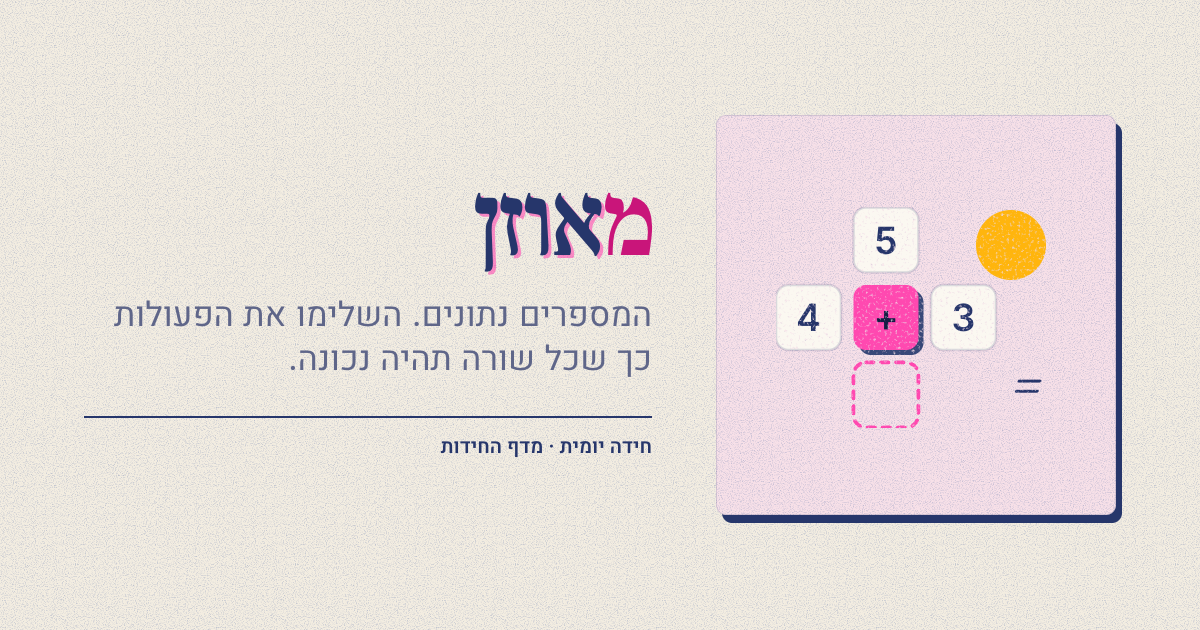
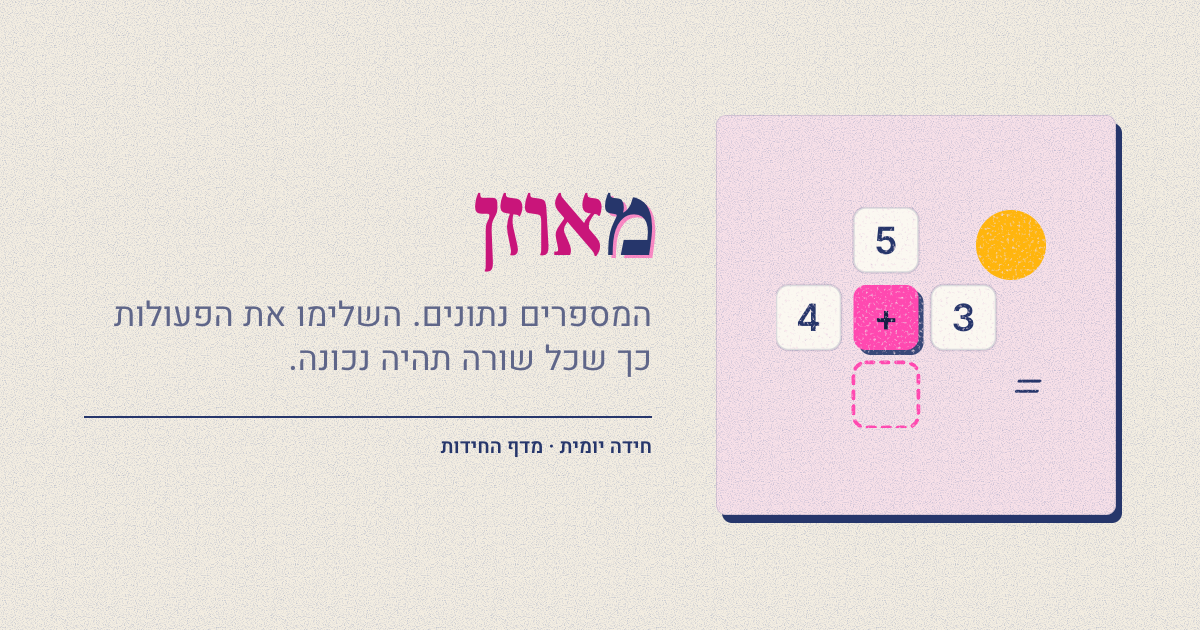
Hebrew names: accent all but the first letter in בסדר, מהפכים, מאוזן

Changed region(s): [[0.37, 0.3016, 0.555, 0.4524]]

diff --git a/i18n/he.js b/i18n/he.js
@@ -254,7 +254,7 @@ module.exports = {
       ['<span class="hide-sm">Price: one coffee break</span>', '<span class="hide-sm">מחיר: הפסקת קפה אחת</span>'],
       ['aria-label="Games"', 'aria-label="משחקים"'],
       ['<span class="kicker">01 <em>Math</em></span>', '<span class="kicker">01 <em>חשבון</em></span>'],
-      ['<h2>Math<span>quilibrium</span></h2>', '<h2><span>מ</span>אוזן</h2>'],
+      ['<h2>Math<span>quilibrium</span></h2>', '<h2>מ<span>אוזן</span></h2>'],
       ['<p>The numbers are given. Fill in the operators so every line is true.</p>', '<p>המספרים נתונים. השלימו את הפעולות כך שכל שורה תהיה נכונה.</p>'],
       ['<span class="kicker">02 <em>Math</em></span>', '<span class="kicker">02 <em>חשבון</em></span>'],
       ['<h2>Bigg<span>r</span></h2>', '<h2><span>כ</span>מה <span>כ</span>מה</h2>'],
@@ -266,13 +266,13 @@ module.exports = {
       ['<p>A subject, 24 words, 60 seconds. Swipe right if it fits.</p>', '<p>נושא אחד, 24 מילים, 60 שניות. מתאים? החליקו ימינה.</p>'],
       ['data-store="orderly"', 'data-store="orderly-he"'],
       ['<span class="kicker">04 <em>Trivia</em></span>', '<span class="kicker">04 <em>טריוויה</em></span>'],
-      ['<h2>Order<span>ly</span></h2>', '<h2><span>ב</span>סדר</h2>'],
+      ['<h2>Order<span>ly</span></h2>', '<h2>ב<span>סדר</span></h2>'],
       ['<p>Ten cards, one subject. Drag them into order.</p>', '<p>עשרה קלפים, נושא אחד. גררו אותם לסדר הנכון.</p>'],
       ['<span class="kicker">05 <em>Logic</em></span>', '<span class="kicker">05 <em>היגיון</em></span>'],
       ['<h2>Coro<span>net</span></h2>', '<h2><span>ה</span>כתרה</h2>'],
       ['<p>Queens in the round: one per ring, one per slice, one per color.</p>', '<p>מלכות במעגל: אחת בכל טבעת, אחת בכל פלח, אחת בכל צבע.</p>'],
       ['<span class="kicker">06 <em>Logic</em></span>', '<span class="kicker">06 <em>היגיון</em></span>'],
-      ['<h2>Quad<span>flip</span></h2>', '<h2><span>מ</span>הפכים</h2>'],
+      ['<h2>Quad<span>flip</span></h2>', '<h2>מ<span>הפכים</span></h2>'],
       ['<p>Stamp every piece once to flip the board back to blank.</p>', '<p>החתימו כל צורה פעם אחת והפכו את הלוח בחזרה ללבן.</p>'],
       ['<p class="colophon">Printed fresh every morning.</p>', '<p class="colophon">מודפס טרי בכל בוקר.</p>'],
       // the inline script
@@ -287,7 +287,7 @@ module.exports = {
     'mathquilibrium/index.html': [
       ['Mathquilibrium — the operator crossword', 'מאוזן — תשבץ הפעולות'],
       ['A crossword where the numbers are given and you fill in the math. New daily puzzle every day.', 'תשבץ שבו המספרים נתונים ואתם משלימים את החשבון. חידה יומית חדשה בכל יום.'],
-      ['<h1 class="wordmark">Math<span>quilibrium</span></h1>', '<h1 class="wordmark"><span>מ</span>אוזן</h1>'],
+      ['<h1 class="wordmark">Math<span>quilibrium</span></h1>', '<h1 class="wordmark">מ<span>אוזן</span></h1>'],
       ['<p class="tagline">The numbers are given. The math is yours.</p>', '<p class="tagline">המספרים נתונים. החשבון עליכם.</p>'],
       ['aria-label="Operators"', 'aria-label="פעולות"'],
       ["<b>Let's go</b>", '<b>יאללה</b>'],
@@ -350,7 +350,7 @@ module.exports = {
       ['Orderly — put ten things in order', 'בסדר — עשרה דברים, סדר אחד'],
       ['A subject and ten cards. Drag them into order: oldest to newest, smallest to largest, mildest to hottest. A new daily puzzle every day.',
         'נושא אחד ועשרה קלפים. גררו אותם לסדר הנכון: מהישן לחדש, מהקטן לגדול, מהעדין לחריף. חידה יומית חדשה בכל יום.'],
-      ['<h1 class="wordmark">Order<span>ly</span></h1>', '<h1 class="wordmark"><span>ב</span>סדר</h1>'],
+      ['<h1 class="wordmark">Order<span>ly</span></h1>', '<h1 class="wordmark">ב<span>סדר</span></h1>'],
       ['<p class="tagline">Ten cards, one subject. Put them in order.</p>', '<p class="tagline">עשרה קלפים, נושא אחד. סדרו אותם.</p>'],
       ["<b>Today's puzzle</b>", '<b>החידה של היום</b>'],
       ['aria-label="Share link to this puzzle"', 'aria-label="שיתוף קישור לחידה"'],
@@ -393,7 +393,7 @@ module.exports = {
     'quadflip/index.html': [
       ['Quadflip — flip the board clear', 'מהפכים — הפכו את הלוח ללבן'],
       ['Stamp every tetromino once to flip a board of tiles back to blank. New daily puzzles every day.', 'החתימו כל צורת טטרומינו פעם אחת כדי להפוך לוח של משבצות בחזרה ללבן. חידות יומיות חדשות בכל יום.'],
-      ['<h1 class="wordmark">Quad<span>flip</span></h1>', '<h1 class="wordmark"><span>מ</span>הפכים</h1>'],
+      ['<h1 class="wordmark">Quad<span>flip</span></h1>', '<h1 class="wordmark">מ<span>הפכים</span></h1>'],
       ['<p class="tagline">Every piece once. Every tile blank.</p>', '<p class="tagline">כל צורה פעם אחת. כל משבצת לבנה.</p>'],
       ['aria-label="Pieces"', 'aria-label="צורות"'],
       ['<p id="board-keys" class="sr-only">Number keys pick a piece. Arrow keys move it over the board. Space or Enter stamps it, flipping the four tiles under it. Backspace or Z takes back the last stamp.</p>',

diff --git a/shared/og.html b/shared/og.html
@@ -124,12 +124,12 @@
   };
   // Hebrew (?lang=he): the names, lines and footers of the Hebrew pages (i18n/he.js)
   const HE = { // [wordmark, line]: the accented letters are in <span>, as on the pages
-    mathquilibrium: ['<span>מ</span>אוזן', 'המספרים נתונים. השלימו את הפעולות כך שכל שורה תהיה נכונה.'],
+    mathquilibrium: ['מ<span>אוזן</span>', 'המספרים נתונים. השלימו את הפעולות כך שכל שורה תהיה נכונה.'],
     coronet: ['<span>ה</span>כתרה', 'מלכות במעגל: אחת בכל טבעת, אחת בכל פלח, אחת בכל צבע.'],
     wordswipe: ['שמאל <span>ימין</span> שמאל', 'נושא אחד, 24 מילים, 60 שניות. מתאים? החליקו ימינה.'],
-    orderly: ['<span>ב</span>סדר', 'עשרה קלפים, נושא אחד. גררו אותם לסדר הנכון.'],
+    orderly: ['ב<span>סדר</span>', 'עשרה קלפים, נושא אחד. גררו אותם לסדר הנכון.'],
     biggr: ['<span>כ</span>מה <span>כ</span>מה', 'שני תרגילים, בלי תשובות. בחרו את הגדול יותר, מהר.'],
-    quadflip: ['<span>מ</span>הפכים', 'החתימו כל צורה פעם אחת והפכו את הלוח בחזרה ללבן.'],
+    quadflip: ['מ<span>הפכים</span>', 'החתימו כל צורה פעם אחת והפכו את הלוח בחזרה ללבן.'],
   };
   const he = new URLSearchParams(location.search).get('lang') === 'he';
   if (he) {

diff --git a/he/index.html b/he/index.html
@@ -122,7 +122,7 @@
       </div>
       <div>
         <span class="kicker">01 <em>חשבון</em></span>
-        <h2><span>מ</span>אוזן</h2>
+        <h2>מ<span>אוזן</span></h2>
         <p>המספרים נתונים. השלימו את הפעולות כך שכל שורה תהיה נכונה.</p>
         <div class="today"></div>
       </div>
@@ -177,7 +177,7 @@
       </div>
       <div>
         <span class="kicker">04 <em>טריוויה</em></span>
-        <h2><span>ב</span>סדר</h2>
+        <h2>ב<span>סדר</span></h2>
         <p>עשרה קלפים, נושא אחד. גררו אותם לסדר הנכון.</p>
         <div class="today"></div>
       </div>
@@ -220,7 +220,7 @@
       </div>
       <div>
         <span class="kicker">06 <em>היגיון</em></span>
-        <h2><span>מ</span>הפכים</h2>
+        <h2>מ<span>הפכים</span></h2>
         <p>החתימו כל צורה פעם אחת והפכו את הלוח בחזרה ללבן.</p>
         <div class="today"></div>
       </div>

diff --git a/he/quadflip/index.html b/he/quadflip/index.html
@@ -31,7 +31,7 @@
   <a class="icon corner-start" href="../" aria-label="כל המשחקים"><svg viewBox="0 0 24 24"><path d="M15 5l-7 7 7 7"/></svg></a>
   <div class="corner"><button class="icon js-theme" aria-label="ערכת צבע"></button><button class="icon js-sound" aria-label="צליל"></button></div>
   <div id="logo" class="board mini" aria-hidden="true"></div>
-  <h1 class="wordmark"><span>מ</span>הפכים</h1>
+  <h1 class="wordmark">מ<span>הפכים</span></h1>
   <p class="tagline">כל צורה פעם אחת. כל משבצת לבנה.</p>
   <nav class="menu">
     <div class="block-head"><h2>היום</h2><span id="daily-meta"></span></div>

diff --git a/he/orderly/index.html b/he/orderly/index.html
@@ -31,7 +31,7 @@
   <a class="icon corner-start" href="../" aria-label="כל המשחקים"><svg viewBox="0 0 24 24"><path d="M15 5l-7 7 7 7"/></svg></a>
   <div class="corner"><button class="icon js-theme" aria-label="ערכת צבע"></button><button class="icon js-sound" aria-label="צליל"></button></div>
   <div id="logo" aria-hidden="true"><i></i><i></i><i></i></div>
-  <h1 class="wordmark"><span>ב</span>סדר</h1>
+  <h1 class="wordmark">ב<span>סדר</span></h1>
   <p class="tagline">עשרה קלפים, נושא אחד. סדרו אותם.</p>
   <nav class="menu">
     <div class="block-head"><h2>היום</h2><span id="daily-meta"></span></div>

diff --git a/he/mathquilibrium/index.html b/he/mathquilibrium/index.html
@@ -31,7 +31,7 @@
   <a class="icon corner-start" href="../" aria-label="כל המשחקים"><svg viewBox="0 0 24 24"><path d="M15 5l-7 7 7 7"/></svg></a>
   <div class="corner"><button class="icon js-theme" aria-label="ערכת צבע"></button><button class="icon js-sound" aria-label="צליל"></button></div>
   <div id="logo" class="board mini" aria-hidden="true"></div>
-  <h1 class="wordmark"><span>מ</span>אוזן</h1>
+  <h1 class="wordmark">מ<span>אוזן</span></h1>
   <p class="tagline">המספרים נתונים. החשבון עליכם.</p>
   <nav class="menu">
     <div class="block-head"><h2>היום</h2><span id="daily-meta"></span></div>
